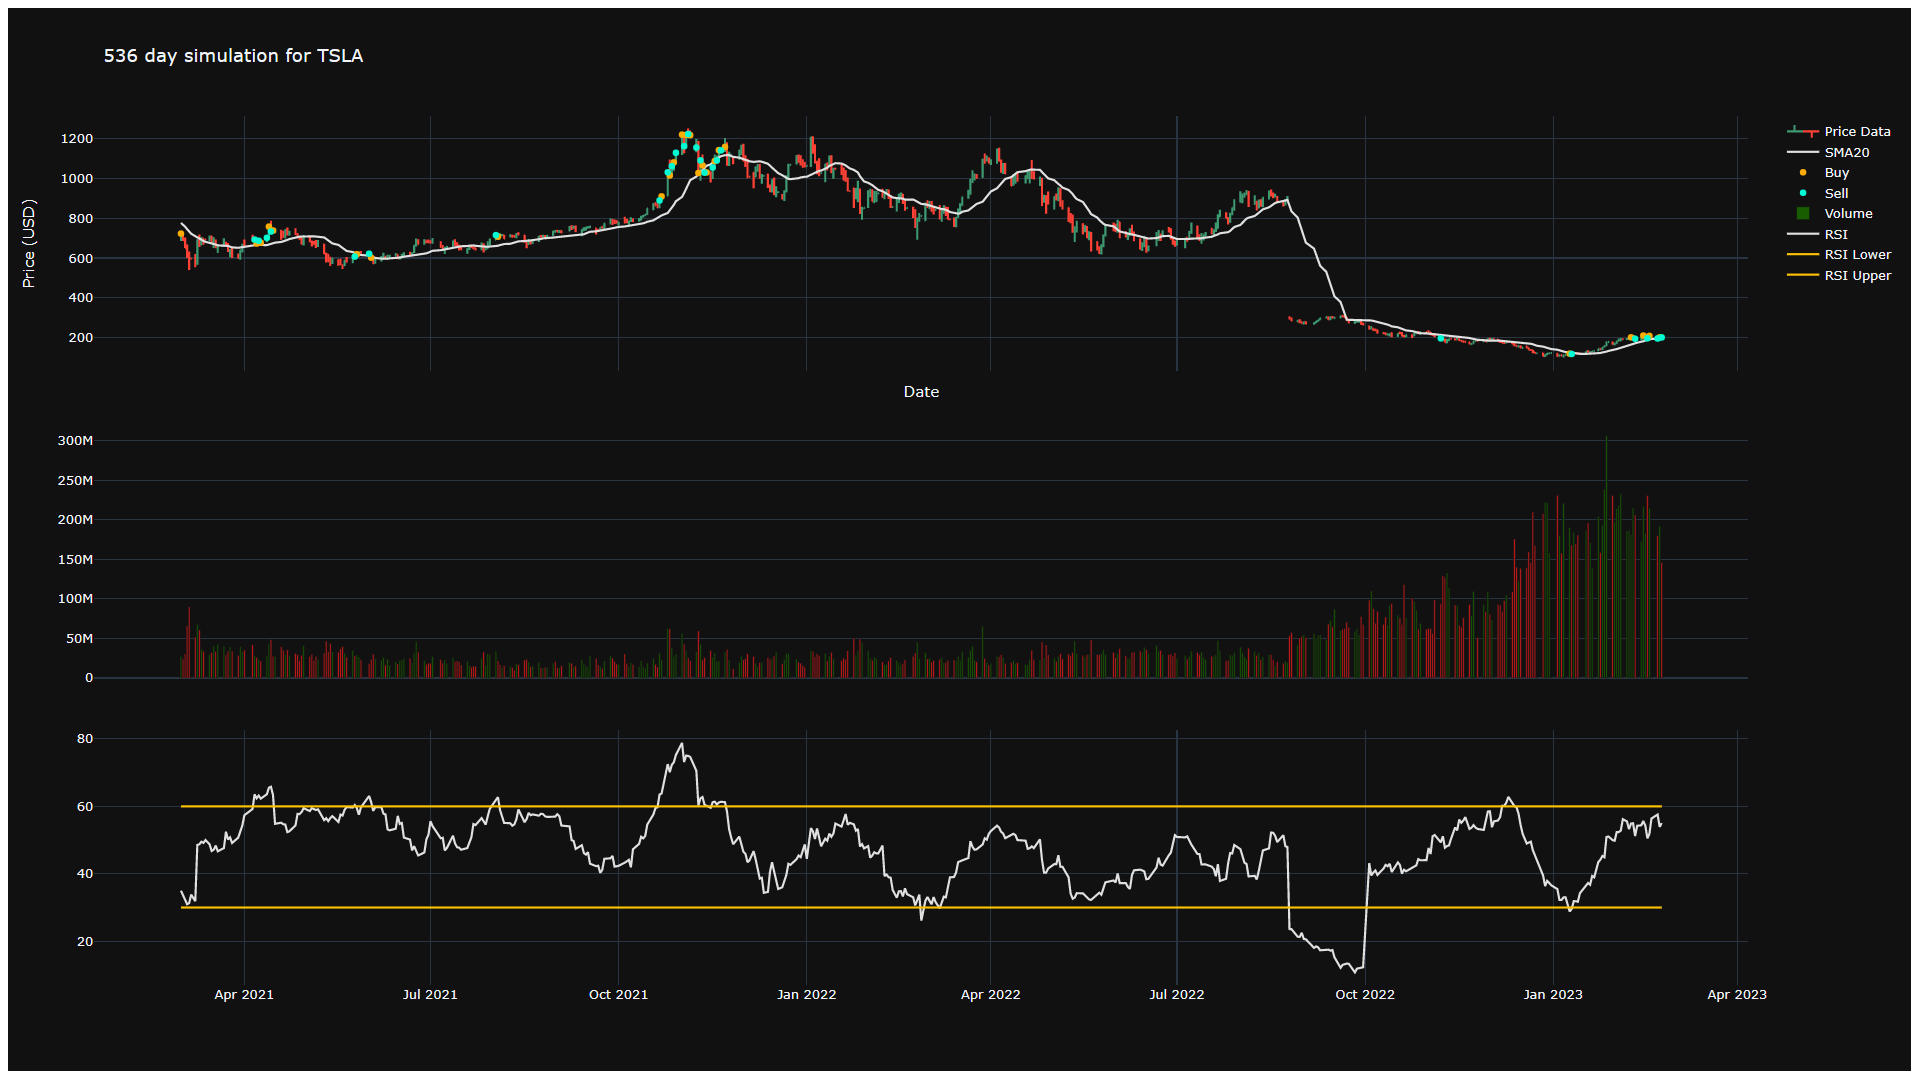
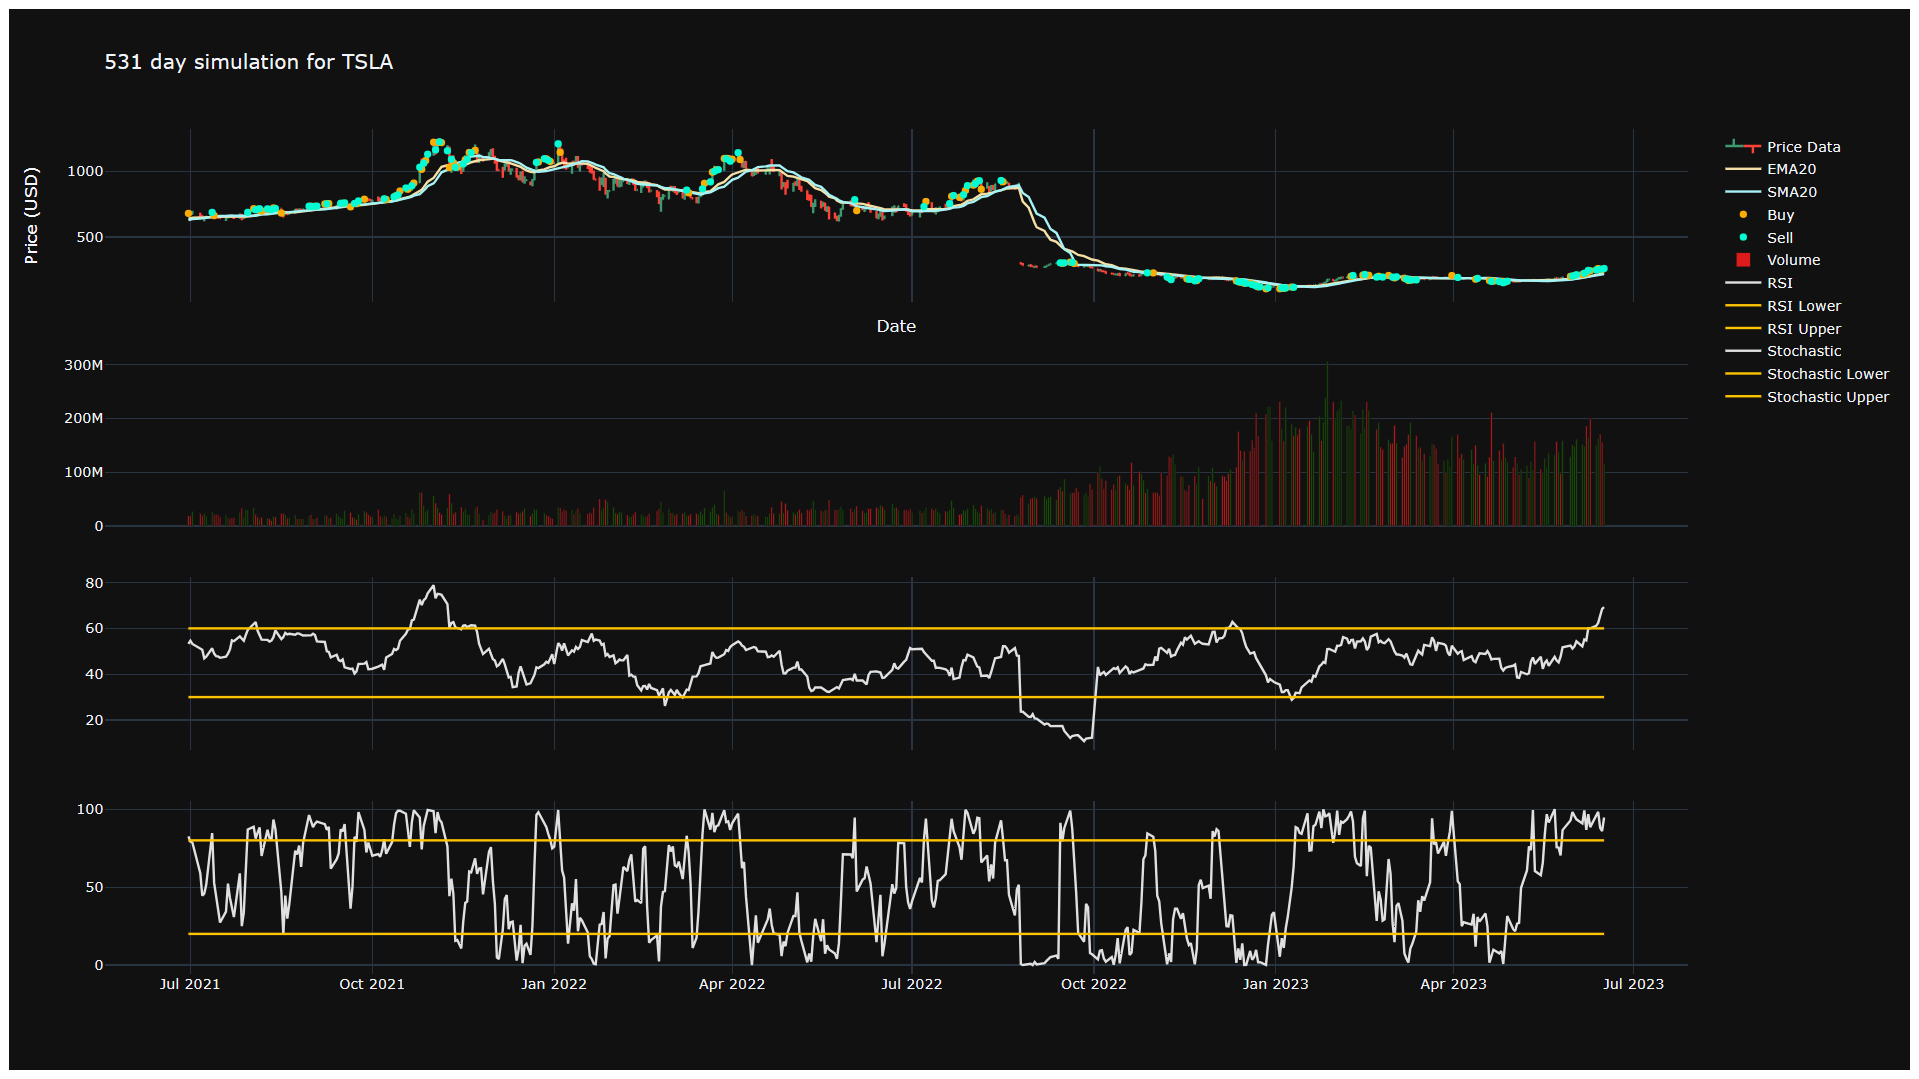
fixed stochastic oscillator chart and updated images

diff --git a/src/StockBench/display/stochastic.py b/src/StockBench/display/stochastic.py
@@ -13,7 +13,7 @@ class Stochastic(Subplot):
         - RSI lower trigger
     """
     def __init__(self):
-        super().__init__('stochastic', [{"type": "scatter"}])
+        super().__init__('stochastic_oscillator', [{"type": "scatter"}])
 
     @staticmethod
     def get_subplot(df):

diff --git a/src/main.py b/src/main.py
@@ -3,7 +3,6 @@ from StockBench.composites.snp500 import snp500_tickers
 from StockBench.constants import *
 from StockBench.simulator import Simulator
 
-
 strategy = {
     'start': int(time.time()) - SECONDS_5_YEAR,
     'end': int(time.time()),
